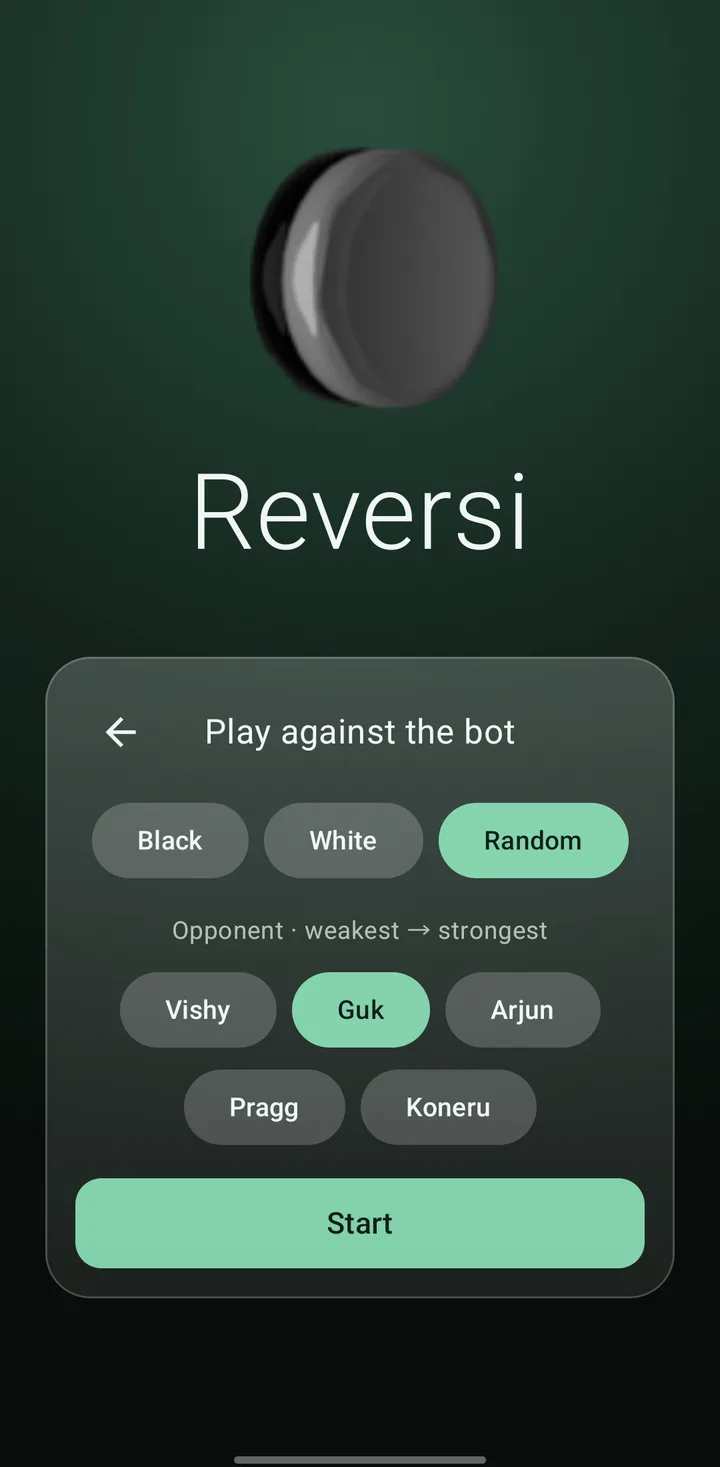
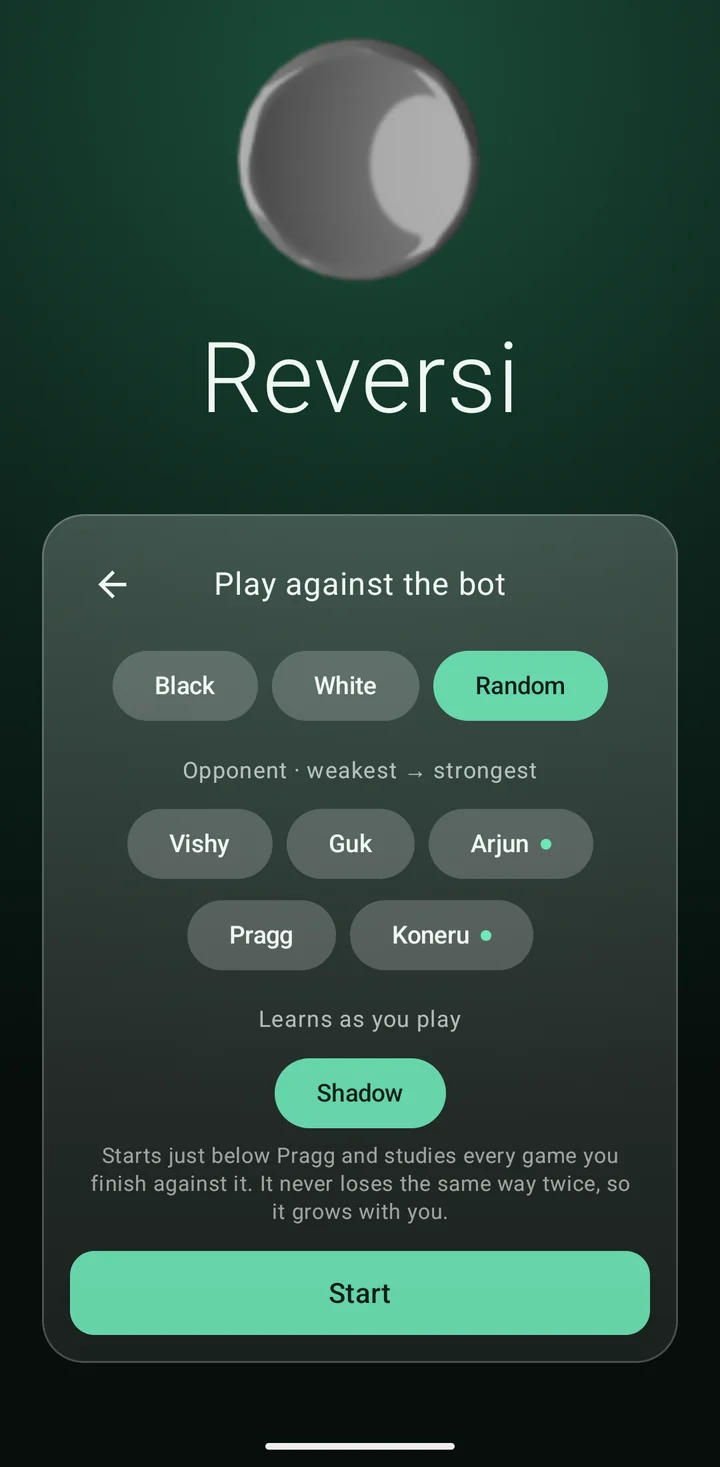
Show Shadow in the website's bot picker screenshot
Retake screen-bot.webp from the current build with Shadow selected in the
"Learns as you play" row, and mention Shadow in the screenshot alt text.

diff --git a/docs/index.html b/docs/index.html
@@ -57,7 +57,7 @@
 
     <section class="features" aria-label="Features">
       <article class="feature reveal">
-        <div class="feature-shot"><div class="phone"><img class="screen" src="assets/screen-bot.webp" alt="Play against the bot: choose Black, White or Random, then pick an opponent from Vishy, Guk, Arjun, Pragg and Koneru" width="720" height="1467" loading="lazy"></div></div>
+        <div class="feature-shot"><div class="phone"><img class="screen" src="assets/screen-bot.webp" alt="Play against the bot: choose Black, White or Random, then pick an opponent from Vishy, Guk, Arjun, Pragg and Koneru, or Shadow, which learns as you play" width="720" height="1467" loading="lazy"></div></div>
         <div class="feature-copy">
           <p class="eyebrow">Bots</p>
           <h2>An opponent for every level.</h2>
@@ -110,7 +110,7 @@
       <div class="gallery" tabindex="0" aria-label="Screenshots, scroll sideways">
         <figure><div class="phone"><img class="screen" src="assets/screen-home.webp" alt="Home screen with Pass &amp; play, Play against the bot, Play online and How to play" width="720" height="1467" loading="lazy"></div><figcaption>Home</figcaption></figure>
         <figure><div class="phone"><img class="screen" src="assets/screen-game.webp" alt="A game in progress" width="720" height="1467" loading="lazy"></div><figcaption>In play</figcaption></figure>
-        <figure><div class="phone"><img class="screen" src="assets/screen-bot.webp" alt="Choosing a bot" width="720" height="1467" loading="lazy"></div><figcaption>Pick a bot</figcaption></figure>
+        <figure><div class="phone"><img class="screen" src="assets/screen-bot.webp" alt="Choosing a bot, with Shadow selected" width="720" height="1467" loading="lazy"></div><figcaption>Pick a bot</figcaption></figure>
         <figure><div class="phone"><img class="screen" src="assets/screen-online.webp" alt="Online rooms" width="720" height="1467" loading="lazy"></div><figcaption>Online rooms</figcaption></figure>
         <figure><div class="phone"><img class="screen" src="assets/screen-learn.webp" alt="How to play walkthrough" width="720" height="1467" loading="lazy"></div><figcaption>How to play</figcaption></figure>
         <figure><div class="phone"><img class="screen" src="assets/screen-end.webp" alt="End of a game" width="720" height="1467" loading="lazy"></div><figcaption>Game over</figcaption></figure>
